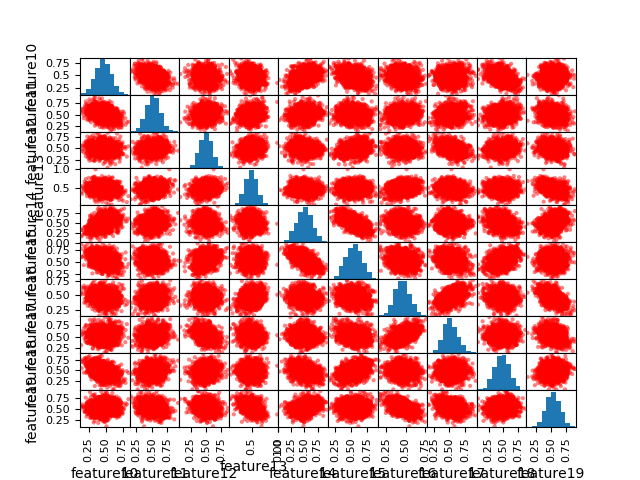
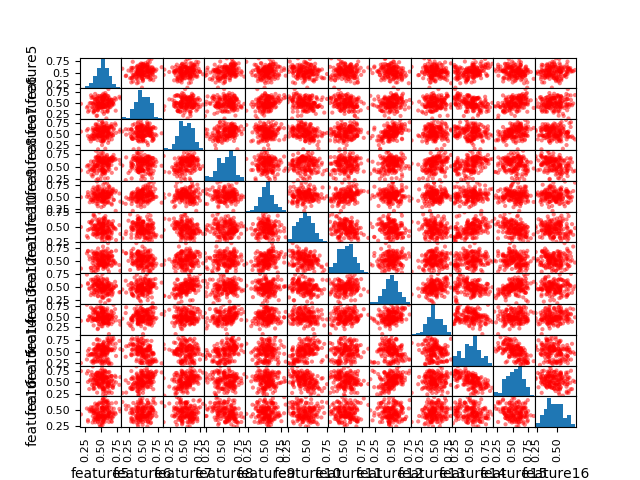
working up the scatter matrix

diff --git a/src/correlation_matrix_target.py b/src/correlation_matrix_target.py
@@ -28,18 +28,17 @@ def create_correlation_matrix(dataset, filename, cmap=plt.cm.viridis):
 def calc_image_diff(imageA_filename, imageB_filename, diff_filename):
     imageA = mpimg.imread(imageA_filename)
     imageB = mpimg.imread(imageB_filename)
-    print(type(imageA))
-    print(imageA.shape)
-    # print(imageA[:, :, 1])
-
-    err = np.sum((imageA.astype("float") - imageB.astype("float")) ** 2)
-    err /= float(imageA.shape[0] * imageA.shape[1])
-    print('Mean squared error', err)
-    print(imageA[:, :, 1].shape)
-    diff_image = np.subtract(imageA[:, :, 1], imageB[:, :, 1])
-    # diff_image = np.subtract(imageA, imageB)
-    print(diff_image)
+    diff_image = np.subtract(imageA[:, :, 1:4], imageB[:, :, 1:4])
+    diff_image = np.subtract([1, 1, 1], diff_image)
     mpimg.imsave(diff_filename, diff_image)
+
+
+def calc_mean_squared_diff(imageA_filename, imageB_filename):
+    imageA = mpimg.imread(imageA_filename)
+    imageB = mpimg.imread(imageB_filename)
+    diff = np.sum((imageA.astype("float") - imageB.astype("float")) ** 2)
+    diff /= float(imageA.shape[0] * imageA.shape[1])
+    return diff
 
 
 training_data = load_training()
@@ -52,3 +51,17 @@ create_correlation_matrix(negative, 'images/matrix_negative.png')
 
 calc_image_diff('images/matrix_positive.png',
                 'images/matrix_negative.png', 'images/diff.png')
+
+print('Mean squared difference', calc_mean_squared_diff(
+    'images/matrix_positive.png', 'images/matrix_negative.png'))
+
+# show image diff for all eras
+
+create_correlation_matrix(pull_features(
+    training_data, target_bernie_value=1), 'images/matrix_positive_all_eras.png')
+
+create_correlation_matrix(pull_features(
+    training_data, target_bernie_value=0), 'images/matrix_negative_all_eras.png')
+
+calc_image_diff('images/matrix_positive_all_eras.png',
+                'images/matrix_negative_all_eras.png', 'images/CorrelationDiff_all_aras.png')

diff --git a/src/scatter_matrix.py b/src/scatter_matrix.py
@@ -6,16 +6,31 @@ from loader import load_training, pull_features, pull_features_and_era_label
 
 
 def create_scatter_matrix(dataset, filename, color='red'):
-    fig, ax = plt.subplots(nrows=1, ncols=1)
+    fig, ax = plt.subplots()
     scatter_matrix(dataset, color=color, ax=ax)
+    # ax.axes.
+    # plt.xticks(rotation='vertical')
+    # plt.yticks(rotation='horizontal')
     plt.savefig(filename)
     plt.close(fig)
 
 
+def scatter_matrix_variation(dataset, select_features, filename_suffix='', frac=0.1):
+    frac = 0.5
+    create_scatter_matrix(dataset[select_features].sample(
+        frac=frac), 'scatter/scatter_matrix' + filename_suffix + '.png')
+
+
 training_data = load_training()
 
-features_era1 = pull_features(training_data, for_era=1)
-select_features = ['feature' + str(feature) for feature in range(10, 20)]
-frac = 1.0
-create_scatter_matrix(features_era1[select_features].sample(
-    frac=frac), 'scatter/scatter_matrix.png')
+# scatter_matrix_variation(
+#     pull_features(training_data, for_era=1),
+#     ['feature' + str(feature) for feature in range(1, 50)],
+#     '_era1_1_50',
+#     frac=0.1)
+
+scatter_matrix_variation(
+    pull_features(training_data, target_bernie_value=0, for_era=1),
+    ['feature' + str(feature) for feature in range(4, 17)],
+    '_era1_4_17',
+    frac=1.0)
